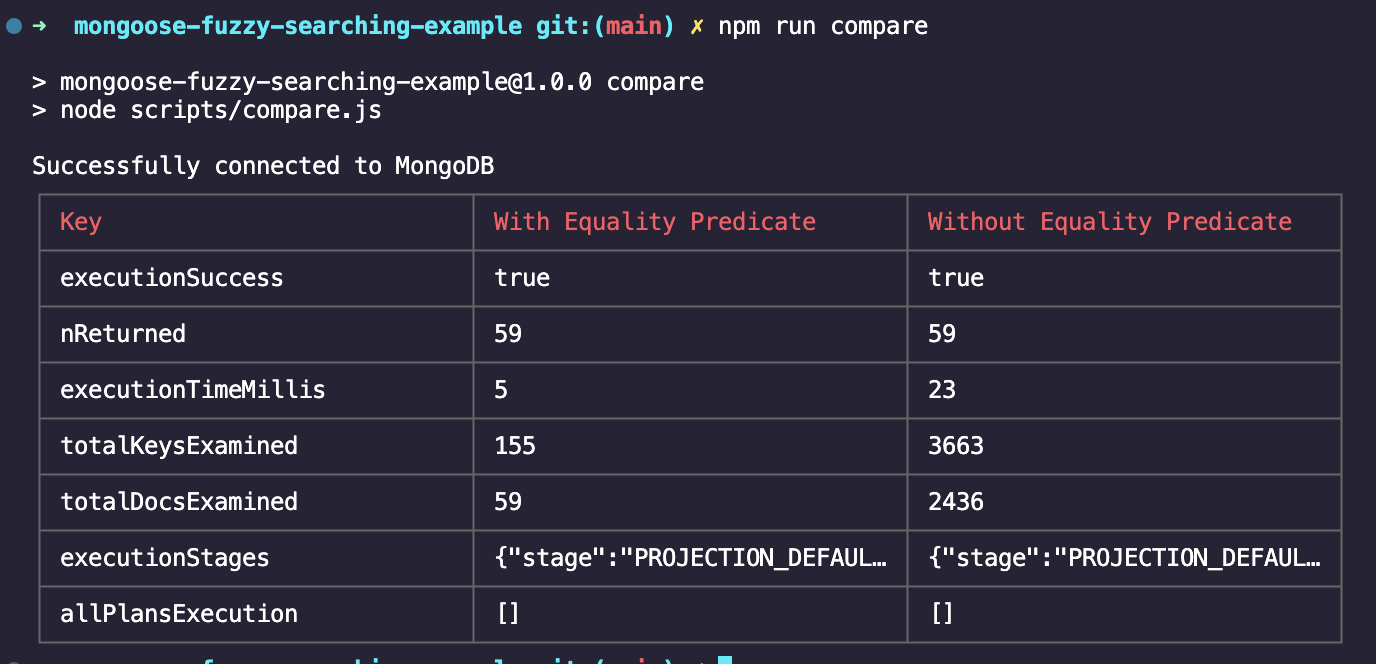
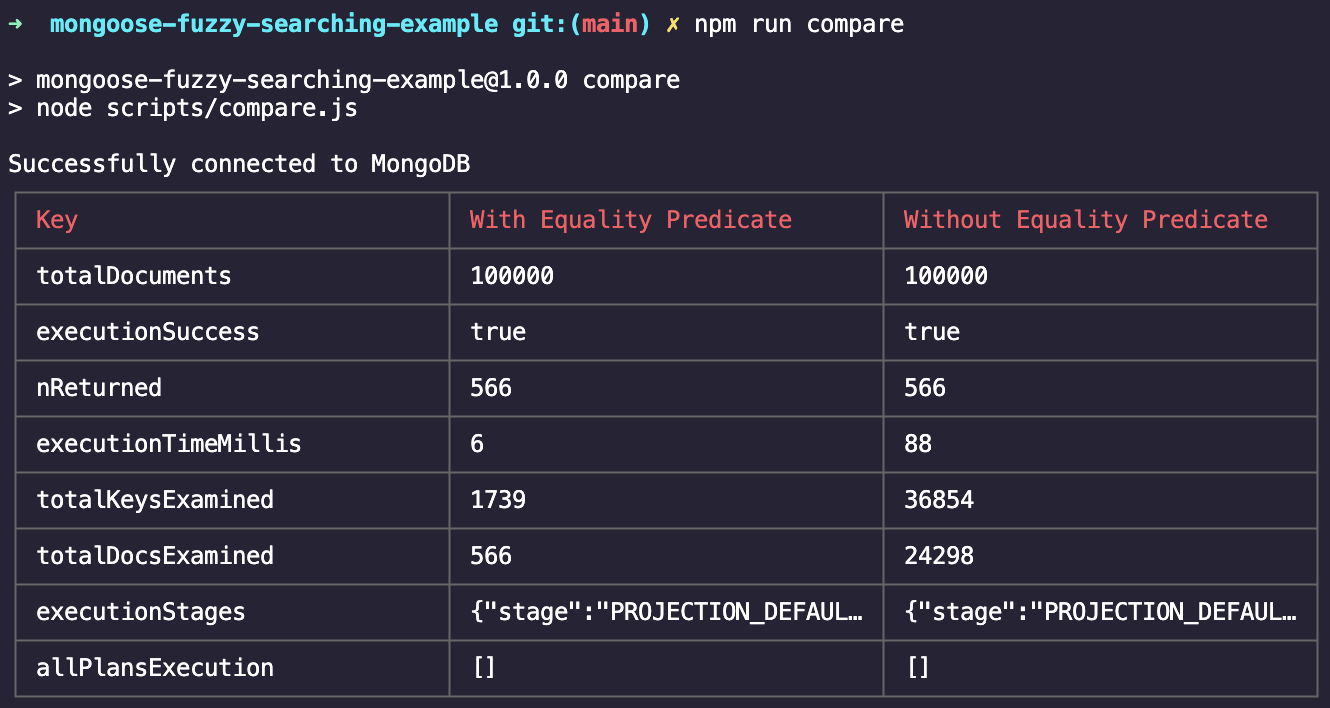
update: compare script

Changed region(s): [[0.0, 0.2108, 1.0, 1.0], [0.0, 0.0904, 0.5241, 0.1807], [0.0, 0.0, 0.6782, 0.0602]]

diff --git a/scripts/compare.js b/scripts/compare.js
@@ -8,6 +8,8 @@ const Product = require('../schemas/ProductSchemaWithPredicates');
 (async () => {
     await connectToDB();
 
+    const totalDocuments = await Product.countDocuments();
+
     const { executionStats: execStats1 } = await Product
         .fuzzySearch(
             { query: 'soft' },
@@ -21,8 +23,8 @@ const Product = require('../schemas/ProductSchemaWithPredicates');
         ).explain();
 
     compareObjects(
-        execStats1,
-        execStats2,
+        Object.assign({ totalDocuments }, execStats1 ),
+        Object.assign({ totalDocuments }, execStats2),
         'With Equality Predicate',
         'Without Equality Predicate'
     );

diff --git a/scripts/seed-db.js b/scripts/seed-db.js
@@ -7,7 +7,7 @@ const { connectToDB } = require('../helpers/db');
 const ProductOld = require('../schemas/ProductSchema');
 const Product = require('../schemas/ProductSchemaWithPredicates');
 
-const count = 10_000;
+const count = 100_000;
 
 (async () => {
     await connectToDB();
@@ -24,7 +24,7 @@ const count = 10_000;
     }), { count });
 
     await Product.collection.drop();
-    await ProductOld.collection.drop()
+    await ProductOld.collection.drop();
 
     console.log('cleared DB successfully!');
 
